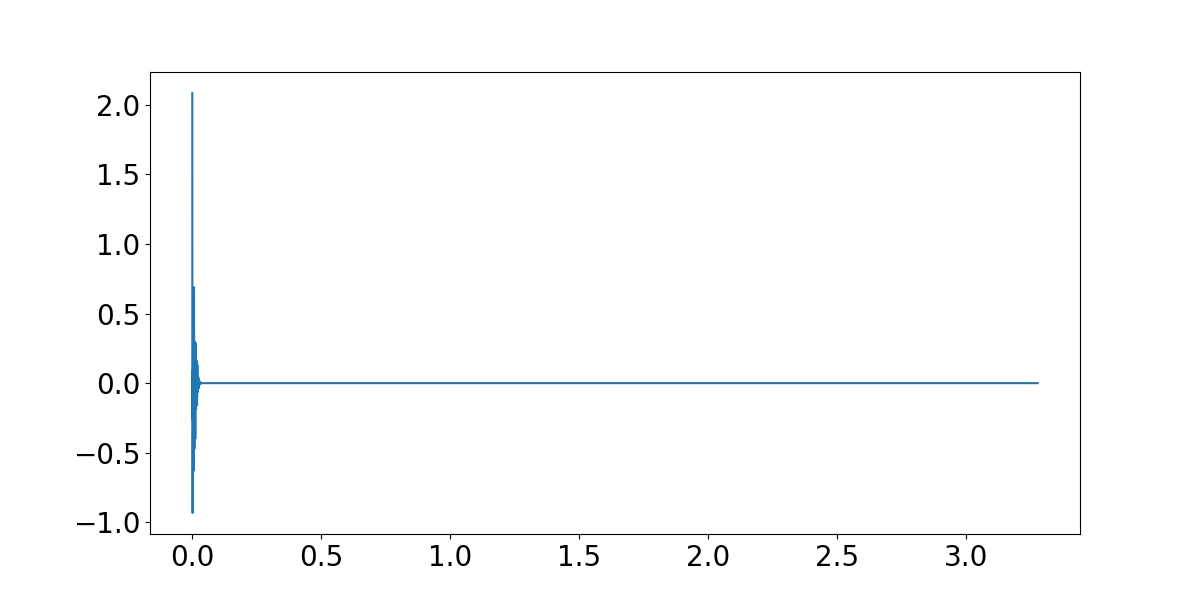
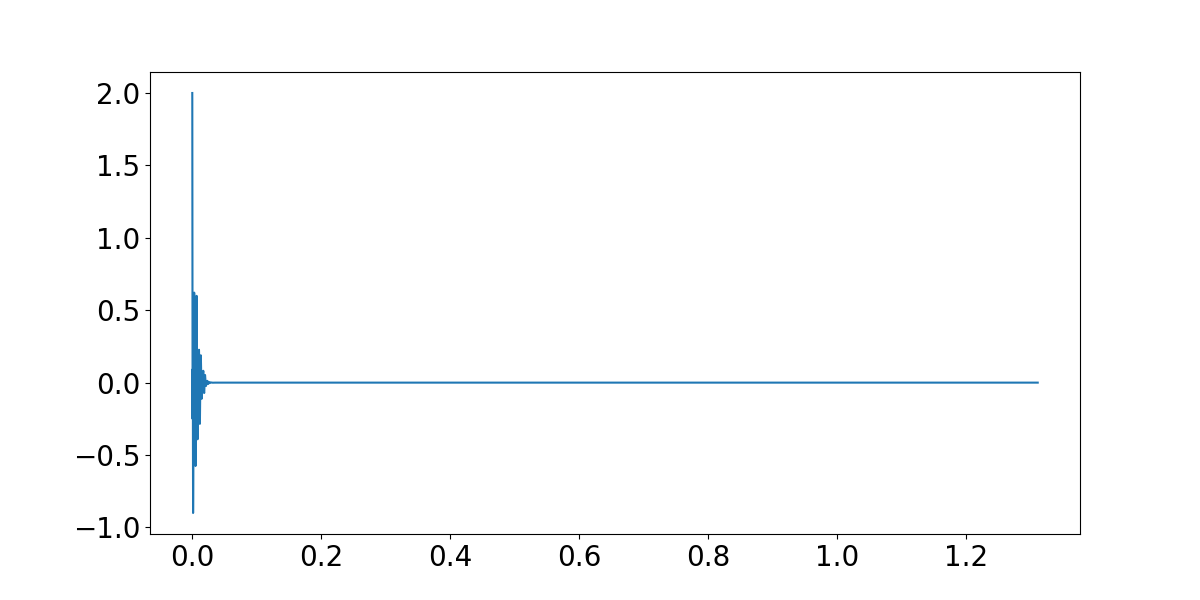
updated rfft zero T version

diff --git a/Finite Temperature/main_finite_temp.py b/Finite Temperature/main_finite_temp.py
@@ -69,8 +69,8 @@ def get_spectal_function(omegas, huang_rhys_factors, angular_frequencies_HRF):
 
 
 # Broadening parameters
-gamma = 100
-gamma2 = 100
+gamma = 120
+gamma2 = 220
 
 
 # Temperature parameter
@@ -78,8 +78,8 @@ beta = None
 
 
 # Setting up the domains
-dt = 0.0001
-N = 16
+dt = 0.00001
+N = 18
 N_max = 2**N # In principle this should be 2**N
 times = np.arange(0, N_max)*dt
 omegas = times/dt*(2*np.pi/(N_max*dt)) # Centered around zero!
@@ -103,60 +103,32 @@ dw_sajid = abs(np.diff(freqs_sajid)[0])
 
 # Getting spectral function
 spectral_function, s0 = get_spectal_function(omegas, huang_rhys_factors, frequencies)
+# Getting phonon correlation function
+times, td_spectral_function = phonon_correlation_function(omegas, spectral_function, None)
 
 
-# rfft test
-td_spectral_function = np.fft.rfft(spectral_function)
-fd_spectral_function = np.fft.irfft(td_spectral_function)
 
-print(len(spectral_function))
-print(len(fd_spectral_function))
-
-
-fig = plt.figure(figsize=(12, 6))
-plt.plot(omegas, spectral_function)
-plt.plot(omegas, fd_spectral_function, linestyle = "--")
-plt.xlim([0, 30000])
-fig.savefig("rfft_sandbox.png")
-
-times = np.fft.rfftfreq(omegas.size, d = dw)*2*np.pi
 fig = plt.figure(figsize=(12, 6))
 plt.plot(times, td_spectral_function)
 fig.savefig("St_test.png")
 
+
 G = np.exp(td_spectral_function - s0)*np.exp(-gamma2*times)
 A = fftshift(np.fft.irfft(G))
 
-
-
-print(len(A))
-print(len(omegas))
+print(gamma)
+print(gamma2)
 fig = plt.figure(figsize=(12, 6))
 plt.plot(omegas - np.max(omegas)/2, A)
 # plt.xlim([-3000, 10000])
 fig.savefig("test_A.png")
 
-
-
-"""
-# Getting G and the spectral function A
-G = np.exp(St - s0)*np.exp(-gamma2*times)
-A = fftshift(fft(G))
-
-
-# Normalization steps
 A = A/(np.trapz(A, dx = dw))
 emissions_sajid = emissions_sajid/np.trapz(emissions_sajid, dx = 2*np.pi*dw_sajid)
 
-
-# Plotting 
-shifted_omegas = omegas - omegas[int(len(omegas)/2)]
-
-# Figure 
 fig = plt.figure(figsize=(12, 6))
-
-plt.title("Comparing Alkauskas and Duschinsky")
-plt.plot(shifted_omegas/(2*np.pi), 2*A, label = "Numpy FFT based Alkauskas method")
+plt.title("Checking rFFT method")
+plt.plot((omegas - np.max(omegas)/2)/(2*np.pi), A, label = "Numpy rFFT method")
 plt.plot(freqs_sajid, emissions_sajid, label = "Sajid", linestyle = "--")
 plt.xlim([-3000, np.max(freqs_sajid)])
 plt.xlabel(r"$\nu$ $[\mathrm{cm}^{-1}]$")
@@ -164,5 +136,6 @@ plt.ylabel("$A(\hbar \omega)$ [A.U.]")
 plt.grid()
 plt.legend()
 plt.tight_layout()
-fig.savefig("Sideband_spectrum_comparison.png")
-"""
+fig.savefig("Sideband_spectrum_comparison2.png")
+
+

diff --git a/Finite Temperature/working_rfft_zeroT_version.py b/Finite Temperature/working_rfft_zeroT_version.py
@@ -69,8 +69,8 @@ def get_spectal_function(omegas, huang_rhys_factors, angular_frequencies_HRF):
 
 
 # Broadening parameters
-gamma = 100
-gamma2 = 100
+gamma = 120
+gamma2 = 220
 
 
 # Temperature parameter
@@ -78,8 +78,8 @@ beta = None
 
 
 # Setting up the domains
-dt = 0.0001
-N = 16
+dt = 0.00001
+N = 18
 N_max = 2**N # In principle this should be 2**N
 times = np.arange(0, N_max)*dt
 omegas = times/dt*(2*np.pi/(N_max*dt)) # Centered around zero!
@@ -103,60 +103,32 @@ dw_sajid = abs(np.diff(freqs_sajid)[0])
 
 # Getting spectral function
 spectral_function, s0 = get_spectal_function(omegas, huang_rhys_factors, frequencies)
+# Getting phonon correlation function
+times, td_spectral_function = phonon_correlation_function(omegas, spectral_function, None)
 
 
-# rfft test
-td_spectral_function = np.fft.rfft(spectral_function)
-fd_spectral_function = np.fft.irfft(td_spectral_function)
 
-print(len(spectral_function))
-print(len(fd_spectral_function))
-
-
-fig = plt.figure(figsize=(12, 6))
-plt.plot(omegas, spectral_function)
-plt.plot(omegas, fd_spectral_function, linestyle = "--")
-plt.xlim([0, 30000])
-fig.savefig("rfft_sandbox.png")
-
-times = np.fft.rfftfreq(omegas.size, d = dw)*2*np.pi
 fig = plt.figure(figsize=(12, 6))
 plt.plot(times, td_spectral_function)
 fig.savefig("St_test.png")
 
+
 G = np.exp(td_spectral_function - s0)*np.exp(-gamma2*times)
 A = fftshift(np.fft.irfft(G))
 
-
-
-print(len(A))
-print(len(omegas))
+print(gamma)
+print(gamma2)
 fig = plt.figure(figsize=(12, 6))
 plt.plot(omegas - np.max(omegas)/2, A)
 # plt.xlim([-3000, 10000])
 fig.savefig("test_A.png")
 
-
-
-"""
-# Getting G and the spectral function A
-G = np.exp(St - s0)*np.exp(-gamma2*times)
-A = fftshift(fft(G))
-
-
-# Normalization steps
 A = A/(np.trapz(A, dx = dw))
 emissions_sajid = emissions_sajid/np.trapz(emissions_sajid, dx = 2*np.pi*dw_sajid)
 
-
-# Plotting 
-shifted_omegas = omegas - omegas[int(len(omegas)/2)]
-
-# Figure 
 fig = plt.figure(figsize=(12, 6))
-
-plt.title("Comparing Alkauskas and Duschinsky")
-plt.plot(shifted_omegas/(2*np.pi), 2*A, label = "Numpy FFT based Alkauskas method")
+plt.title("Checking rFFT method")
+plt.plot((omegas - np.max(omegas)/2)/(2*np.pi), A, label = "Numpy rFFT method")
 plt.plot(freqs_sajid, emissions_sajid, label = "Sajid", linestyle = "--")
 plt.xlim([-3000, np.max(freqs_sajid)])
 plt.xlabel(r"$\nu$ $[\mathrm{cm}^{-1}]$")
@@ -164,5 +136,6 @@ plt.ylabel("$A(\hbar \omega)$ [A.U.]")
 plt.grid()
 plt.legend()
 plt.tight_layout()
-fig.savefig("Sideband_spectrum_comparison.png")
-"""
+fig.savefig("Sideband_spectrum_comparison2.png")
+
+
